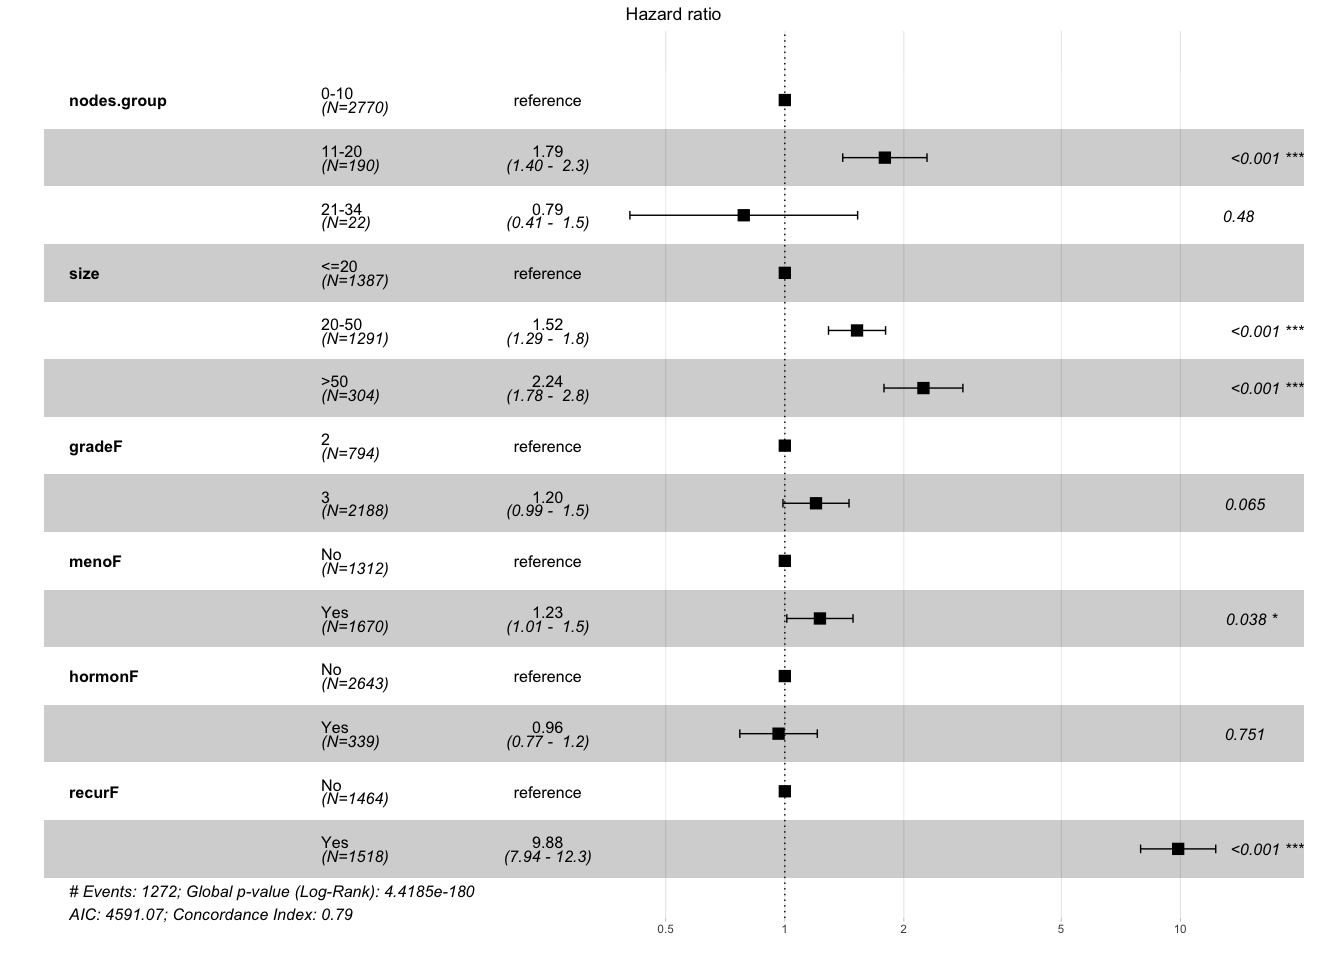
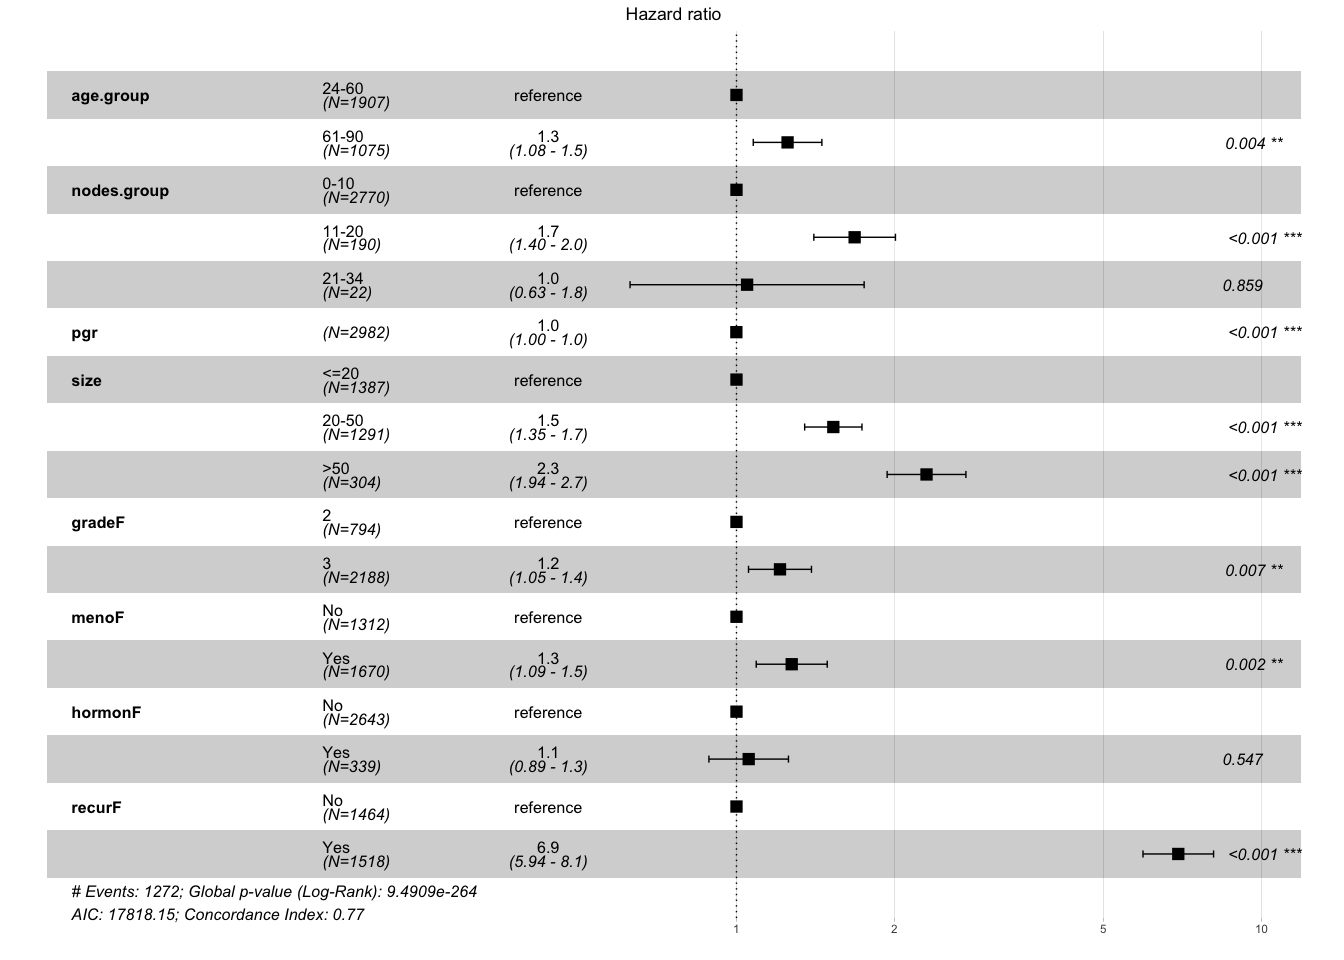
updated

diff --git a/index.md b/index.md
@@ -1,25 +1,15 @@
-Survival_Analysis_cancer
+Breast cancer survival analysis with R
 ================
 Melvin Galera
 2024-03-26
 
-- [I. Overview](#i-overview)
-- [II. Objective](#ii-objective)
-- [III. Data](#iii-data)
-- [III. Exploratory Analysis](#iii-exploratory-analysis)
-  - [A. Univariate Analysis](#a-univariate-analysis)
-  - [Censoring](#censoring)
-- [III. Kaplan-Meier Survival Curves and Log-Rank
-  Tests](#iii-kaplan-meier-survival-curves-and-log-rank-tests)
-- [IV. Cox proportional hazard regression
-  models](#iv-cox-proportional-hazard-regression-models)
-  - [Hazard Ratio](#hazard-ratio)
-- [V. Model Diagnostics](#v-model-diagnostics)
-  - [Hazard Ratio](#hazard-ratio-1)
+### I. Project objective
 
-------------------------------------------------------------------------
+<br> <br>
 
-## I. Overview
+### II. Exploratory Data Analysis
+
+**A. Data Collection**
 
 The dataset has 2982 observations and 15 variables:
 
@@ -38,12 +28,6 @@ The dataset has 2982 observations and 15 variables:
 - \`recur\`\` : 0 = no relapse, 1 = relapse
 - `dtime` : days to death or last follow up
 - `death` : 0 = alive, 1 = dead
-
-## II. Objective
-
-The objective is to do survival analysis
-
-## III. Data
 
 Initial look at the structure and content of `insurance_df` dataset:
 
@@ -129,13 +113,13 @@ cancer_df %>% head(10)
     ##  3rd Qu.:3555   3rd Qu.:1.0000  
     ##  Max.   :7043   Max.   :1.0000
 
-## III. Exploratory Analysis
+**B. Data Exploration**
 
 To perform EDA on the dataset, we perform univariate distribution of the
 variables and the bivariate and multivariate relationships among the
 variables.
 
-### A. Univariate Analysis
+**Univariate plots**
 
 <img src="index_files/figure-gfm/unnamed-chunk-3-1.png" style="display: block; margin: auto;" />
 
@@ -207,7 +191,9 @@ Hormon, Chemo, Recur and death
 Fit model for overall survival death: censoring status (0=
 censored/alive, 1= dead) dtime: days until event or censoring
 
-### Censoring
+<br>
+
+**Censoring**
 
 Model 1
 
@@ -221,9 +207,11 @@ Survival data representation using triplet (follow up time, event)
 
 <img src="index_files/figure-gfm/unnamed-chunk-9-1.png" style="display: block; margin: auto;" />
 
-## III. Kaplan-Meier Survival Curves and Log-Rank Tests
+<br> <br>
 
-A. Kaplan-Meier Curves
+### III. Kaplan-Meier Survival Curves and Log-Rank Tests
+
+**A. Kaplan-Meier Curves**
 
 Model 1: OVERALL FIRST
 
@@ -276,7 +264,9 @@ arrange_ggsurvplots(survplots, print = TRUE, ncol = 2, nrow = 4)
 ```
 
 <img src="index_files/figure-gfm/unnamed-chunk-14-1.png" style="display: block; margin: auto;" />
-B. Log Rank test
+<br>
+
+**B. Log Rank test**
 
 By using log rank test, we can test if there is difference in the
 ssurvival cureves of the categories/predictors.
@@ -315,7 +305,7 @@ curves for recur are the same (as visually shown in KM curve)
 
 <br>
 
-#### Table \_\_. Log-rank test scores an dp-value for all covariates
+Table \_\_. Log-rank test scores an dp-value for all covariates
 
 <table style="border-collapse:collapse; border:none;">
 <tr>
@@ -507,15 +497,21 @@ The survival curves have statistically significant differences.
 </tr>
 </table>
 
-<br>
+<br> <br>
 
-## IV. Cox proportional hazard regression models
+### IV. Cox proportional hazard regression models
 
 These models give us estimates of the “hazard ratio”
 
-A. Univariable Cox model (same as above)
+1.  Model 1 - Univariable Cox model (same as above)
+2.  Model 2 - Multivariable Cox model (except er and chemoF)
+3.  Model 3 - Stratified model
 
-B. Multivariable Cox model (except er and chemoF)
+Models are detailed below.
+
+<br>
+
+**Model 1 - Univariable Cox model**
 
 ``` r
 surv.model <- coxph(Surv(dtime, death) ~ age.group + nodes.group + pgr + size +
@@ -560,20 +556,12 @@ summary(surv.model)
     ## Wald test            = 960.4  on 10 df,   p=<2e-16
     ## Score (logrank) test = 1271  on 10 df,   p=<2e-16
 
+<br>
+
+**Model 2 - Multivariable Cox model**
+
 To check if the multivariable cox model is better than a complex one
 (complete)
-
-    ## Analysis of Deviance Table
-    ##  Cox model: response is  Surv(dtime, death)
-    ##  Model 1: ~ age.group + nodes.group + pgr + size + gradeF + menoF + hormonF + recurF
-    ##  Model 2: ~ age.group + nodes.group + pgr + er + size + gradeF + menoF + hormonF + chemoF + recurF
-    ##    loglik  Chisq Df Pr(>|Chi|)  
-    ## 1 -8899.1                       
-    ## 2 -8896.1 5.9876  2     0.0501 .
-    ## ---
-    ## Signif. codes:  0 '***' 0.001 '**' 0.01 '*' 0.05 '.' 0.1 ' ' 1
-
-P-value is high which means we can use the reduced model.
 
     ## Call:
     ## coxph(formula = Surv(dtime, death) ~ age.group + nodes.group + 
@@ -617,6 +605,22 @@ P-value is high which means we can use the reduced model.
     ## Wald test            = 963.3  on 12 df,   p=<2e-16
     ## Score (logrank) test = 1275  on 12 df,   p=<2e-16
 
+<br>
+
+**Comparison of models**
+
+    ## Analysis of Deviance Table
+    ##  Cox model: response is  Surv(dtime, death)
+    ##  Model 1: ~ age.group + nodes.group + pgr + size + gradeF + menoF + hormonF + recurF
+    ##  Model 2: ~ age.group + nodes.group + pgr + er + size + gradeF + menoF + hormonF + chemoF + recurF
+    ##    loglik  Chisq Df Pr(>|Chi|)  
+    ## 1 -8899.1                       
+    ## 2 -8896.1 5.9876  2     0.0501 .
+    ## ---
+    ## Signif. codes:  0 '***' 0.001 '**' 0.01 '*' 0.05 '.' 0.1 ' ' 1
+
+P-value is high which means we can use the reduced model.
+
 Comparing univariate and multivariate via table
 
 | Dependent: Surv(dtime, death) |           |           all |           HR (univariable) |         HR (multivariable) |
@@ -642,11 +646,9 @@ Comparing univariate and multivariate via table
 | recurF                        | No        |   1464 (49.1) |                         \- |                         \- |
 |                               | Yes       |   1518 (50.9) | 7.68 (6.59-8.95, p\<0.001) | 6.94 (5.94-8.10, p\<0.001) |
 
-### Hazard Ratio
+<br>
 
-<img src="index_files/figure-gfm/unnamed-chunk-22-1.png" style="display: block; margin: auto;" />
-
-## V. Model Diagnostics
+**Model Diagnostics**
 
 Assess any violation of the proportionality assumption through
 statistical test based on Schoenfeld residuals.
@@ -674,9 +676,11 @@ the ‘GLOBAL’ test.
 
 Plot of Schoenfeld residuals against `dtime`.
 
-<img src="index_files/figure-gfm/unnamed-chunk-24-1.png" style="display: block; margin: auto;" />
+<img src="index_files/figure-gfm/unnamed-chunk-23-1.png" style="display: block; margin: auto;" />
 
 We can address these using stratification.
+
+**Model 3 - Stratified model**
 
     ## Call:
     ## coxph(formula = Surv(dtime, death) ~ strata(age.group) + nodes.group + 
@@ -726,6 +730,15 @@ cox.zph(surv.model.stratified)
 
 The ’global\` test for proportionality now shows a p-value above 0.05
 which means the assumption is not violated.
+
+<br>
+
+**Hazard Ratio**
+
+<img src="index_files/figure-gfm/unnamed-chunk-26-1.png" style="display: block; margin: auto;" />
+<br> <br>
+
+### V. Conclusion
 
 ### Hazard Ratio
 
